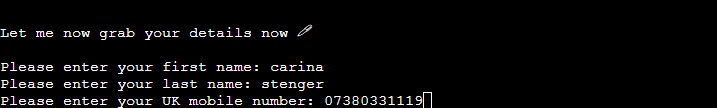
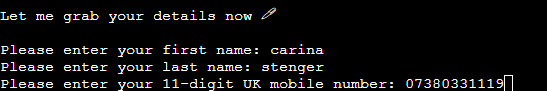
Add additional images and paragraphs to readme for invalid input

diff --git a/run.py b/run.py
@@ -127,7 +127,7 @@ def user_data():
         if len(fname) < 1 or fname.isdigit():
             print(
                 """Hmmm....this doesn't seem right \U0001F914 """
-                """Please make sure to enter a name!"""
+                """ Please make sure to enter a name!"""
             )
             print("Let's start again \U0001F60A")
             return user_data()
@@ -138,7 +138,7 @@ def user_data():
         if len(lname) < 1 or lname.isdigit():
             print(
                 """Hmmm....this doesn't seem right \U0001F914 """
-                """Please make sure to enter a name!"""
+                """ Please make sure to enter a name!"""
             )
             print("Let's start again \U0001F60A")
             return user_data()
@@ -156,7 +156,7 @@ def user_data():
         check_details = input("Please enter now: ")
         check_details = check_details.strip()
         if check_details == "1":
-            print("Alright!\U0001F44D Let's finish your order \U0001F642")
+            print("Alright! \U0001F44D Let's finish your order \U0001F642")
             print("..........................................")
             time.sleep(2)
             break

diff --git a/README.md b/README.md
@@ -14,9 +14,9 @@
 - [User Experience](#user-experience)
 - [Features](#features)
     - [Future Features](#future-features)
-- [Testing](#testing)
-- [Technologies](#technologies)
-- [Deployment](#cloning)
+- [Testing](#testing-and-issues-encountered)
+- [Technologies](#technologies-used)
+- [Deployment](#deployment-to-heroku)
 - [Credits](#credits)
 
 ----------------------------------------
@@ -81,6 +81,14 @@ If the user changes his mind, he can leave the shop by entering N.
 ![First Choice - Leave Shop](readme-assets/first-choice-no.png)
 
 ----------------------------------------
+
+### Invalid Input
+
+If the user enters a invalid input an error message shows up and he will be asked to enter either Y or N
+
+![Invalid Input 1](readme-assets/invalid-input1.png)
+
+----------------------------------------
 ### See Selection/second decision
 
 If the user decides to have a look, a list of books will be printed and displayed. To create a little bit of anticiptation the .sleep() function has been implemented with a delay of 1 second to display all titles.
@@ -111,25 +119,51 @@ As this project has been linked to a Google Sheet, I added a small paragraph to 
 ----------------------------------------
 ### Enter details
 
-The user is now asked to enter their first and last name, and his UK mobile number.
+The user is now asked to enter their first and last name, and his 11-digit UK mobile number.
 
 ![Details](readme-assets/enter-details.png)
 
-### Enter Details - incorrect mobile number
+----------------------------------------
+
+### Invalid Input - Name
+
+If the user enters a invalid input he will be asked to start again from the top.
+
+![Invalid Input2](readme-assets/invalid-input2.png)
+
+![Invalid Input3](readme-assets/invalid-input3.png)
+
+----------------------------------------
+
+### Enter Details - Invalid Number
 
 If the user doesn't enter a valid 11-digit UK number, a message pops up and informs him that it is incorrect. He can then enter the details again. Until the user enters an 11-digit number, the programme keeps looping until a valid number has been entered. 
 
 ![Wrong mobile number](readme-assets/enter-details-incorrect-number.png)
 
-### Confirm or correct details
+----------------------------------------
 
-After entering all his details, the user can then read over them again and either confirm the details by entering the digit 1, or enter the number 2 if he wishes to correct something.
+### Confirm Or Correct Details
+
+After entering all his details, the user can then read over them again and either confirm the details by entering the digit 1, or enter the number 2 if he wishes to correct something. He will then be asked to enter all his details again from the top.
 
 ![Confirm Details - No](readme-assets/confirm-details-no.png)
 
 If he confirms his choice, a message appears letting the user that the order can now be finished up.
 
 ![Confirm Details - Yes](readme-assets/confirm-details-yes.png)
+
+----------------------------------------
+
+### Invalid Input
+
+If the user enters an invalid input, an error message appears and it loops back to the start and he will be asked to enter his details again.
+
+![Invalid Input4](readme-assets/invalid-input4.png)
+
+
+----------------------------------------
+
 
 ## Confirmed Details & Google Sheet
 
@@ -146,12 +180,12 @@ At this stage, the user is being thanked for supporting his local bookshop, and 
 
 ## Last choice
 
-The user is now being asked if he wishes to place another order or leave the shop. If he wishes to leave, he is asked to enter N, and a goodbye message pops up and the programme ends.
+The user is now being asked if he wishes to place another order or leave the shop. If he wishes to place another order, he is asked to enter 1 and if he wants to leave he should press any other key.
 
 ![Leave Shop](readme-assets/last-choice-exit.png)
 
 
-If he wishes to place another order, he is asked to enter Y and the programme starts again from the beginning.
+If he enters 1 the programme starts again from the beginning.
 
 ![Order another book](readme-assets/last-choice-new-start.png)
 
@@ -183,7 +217,7 @@ If he wishes to place another order, he is asked to enter Y and the programme st
 - Gspread - as API for my Google Sheet
 
 --------------------------------------
-## Testing & Issues Encountered
+## Testing And Issues Encountered
 --------------------------------------
 
 The site has been tested by me thoroughly during its creation to ensure that the programme runs as it should and errors are being caught. Friends also tested it on a variation of laptops and with different browsers without any issues.
@@ -202,7 +236,7 @@ I tried turning these variables into global variables and using them, but this t
 
 ## Unfixed Bugs
 
-At the moment, the time printed on the receipt is 1 hour behind. I haven't figured out if this is because of another timezone or it still applies to winter time. As it doesn't affect the functionality of the program and is solely for aesthetic purposes (the receipt) I decided to leave it for now.
+At the moment, the time printed on the receipt is UTC-time. As it doesn't affect the functionality of the program and is solely for aesthetic purposes (the receipt) I decided to leave it for now.
 
 
 ### Validators Testing
